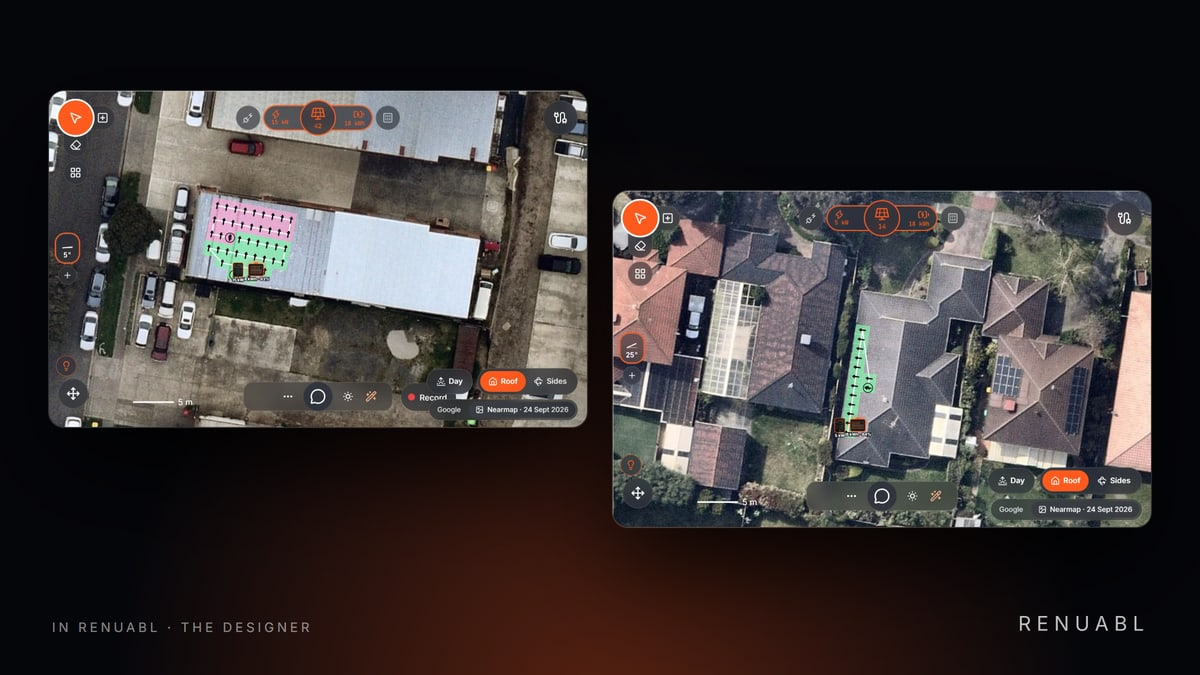
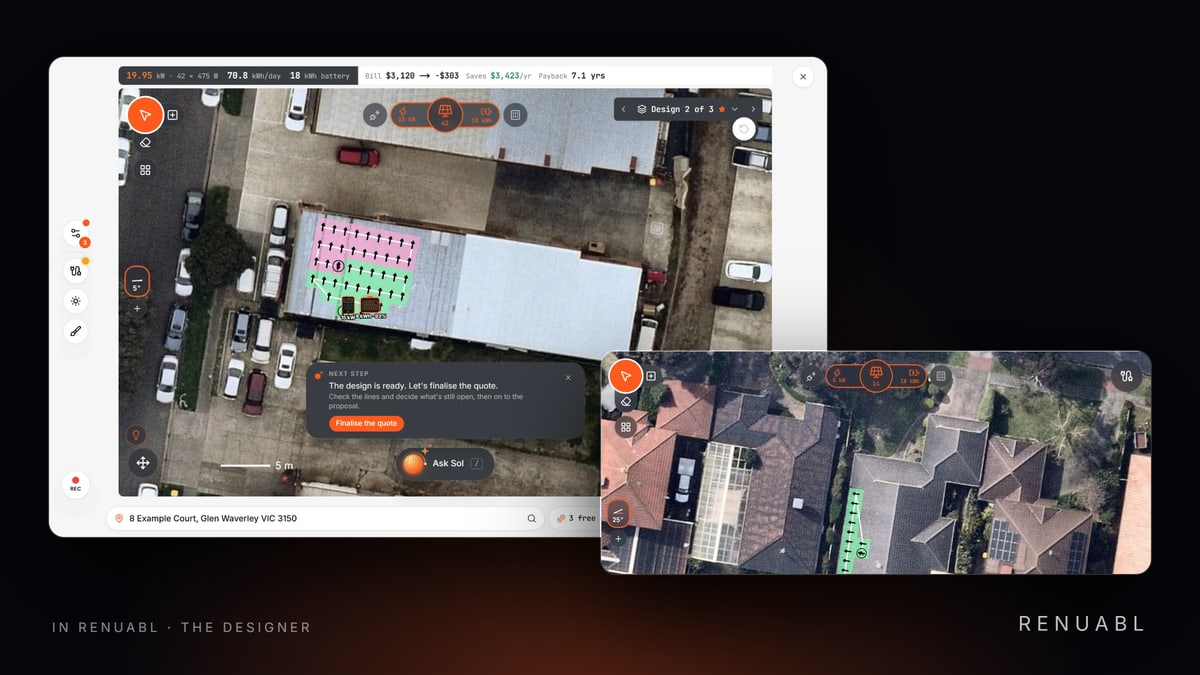
Every launch email shows the designer, in its new look (Martin: a view of the designer in every email, so the reader sees at once it's solar software and not a stray promotion). A slim picture of the designer on a real roof now sits under each email's hook, linking to the demo, and the designer emai

diff --git a/src/lib/domain/marketing/gtm-drafts.ts b/src/lib/domain/marketing/gtm-drafts.ts
@@ -72,6 +72,10 @@ export const SOL_TYPES: Record<string, string> = {
 };
 
 export const GTM_PICTURES: Record<string, GtmPicture> = {
+  dband: {
+    file: "/design/launch/designer-band.jpg",
+    alt: "Made for solar: RENUABL's designer, a system laid out on a real roof and priced as it's drawn",
+  },
   solintro: { file: "/design/launch/sol-intro.gif", alt: SOL_TYPES.solintro },
   cards: {
     file: "/design/launch/cards.gif",
@@ -111,7 +115,8 @@ export const GTM_PICTURES: Record<string, GtmPicture> = {
 export const pictureKeyOf = (b: EdmBlock): string | null => (b.kind === "image" ? (b.id.match(/pic([a-z]+)$/)?.[1] ?? null) : null);
 
 /**
- * One email: the hook as its heading, its pictures (the product moving, Sol's card, the product itself), a line only
+ * One email: the hook as its heading, then the designer (22 Nov 2026, Martin: every email shows the designer, so it
+ * reads at a glance as solar software and not a stray promotion; the designer's own email already leads with it), its pictures (the product moving, Sol's card, the product itself), a line only
  * where something must be said in words, one button, then the slim $2-a-day strip and the Marketplace band.
  */
 function email(
@@ -130,6 +135,7 @@ function email(
     preview,
     blocks: [
       block("h", { kind: "heading", text: hook, url: null, align: "left" }),
+      ...(pictures.includes("designer") ? [] : [picture("dband", DEMO)]),
       ...pictures.map((k) => picture(k)),
       ...(words.length ? [block("t", { kind: "text", text: words.join("\n\n"), url: null, align: "left" })] : []),
       block("b", { kind: "button", text: button[0], url: button[1], align: "left" }),

diff --git a/src/lib/domain/marketing/gtm-drafts.test.ts b/src/lib/domain/marketing/gtm-drafts.test.ts
@@ -50,9 +50,10 @@ describe("the launch drafts", () => {
     expect(art).not.toMatch(/>RENUABL<\/(div|text)>/);
   });
 
-  it("open on the hook and end on the Marketplace band", () => {
+  it("open on the hook with the designer in view, and end on the Marketplace band", () => {
     for (const c of GTM_EMAILS) {
       expect(c.blocks[0].kind).toBe("heading");
+      expect(["dband", "designer"]).toContain(pictureKeyOf(c.blocks[1]));
       expect(pictureKeyOf(c.blocks.at(-2)!)).toBe("footv");
       expect(pictureKeyOf(c.blocks.at(-1)!)).toBe("footer");
       expect(c.blocks.at(-1)!.url).toBe("https://www.renuabl.com.au/design/marketplace");

diff --git a/CLAUDE.md b/CLAUDE.md
@@ -154,7 +154,7 @@
 - **A new campaign starts with what it's for (20 Nov 2026, Martin, from instant.one's "What do you want to achieve today?": New campaign "dives straight into draft which takes a me a little to process im in draft and to orient myself").** `domain/marketing/campaign-goals.ts` (tested), `components/design/marketing/campaign-start.tsx` (`CampaignStart`), `/design/marketing/campaigns/new`. **New campaign** on Campaigns goes there, not to a draft: "What do you want to achieve?" with six tiles (`CAMPAIGN_GOALS`, `GOAL_WORDS`: Announce something new, Promote an offer, Share news or an update, Teach something useful, Win back quiet contacts, Invite them to something), then under them **Or carry on with a draft** (the latest three drafts) and **Start with a blank email**. Picking a tile opens step 2 under it: the goal's own question as the brief box (with an example as its placeholder), **Who is it going to?** (a list, or Choose later) and **Write the first draft** (Ctrl+Enter too) or **I'll write it myself**. Sol writes all four parts first (`writeWithSol` with `goal`; the write route adds the goal's `angle` after his rules, `edmSolPrompt` `angle`: how to approach that kind of email, never a fact, so the brief is still the only source of offers, figures and dates; credits as before), and only then is the campaign made, named from his subject (`campaignName`), filled (`startedContent`: the starter email's heading and words, its button kept) with the list chosen, and opened in the editor; if Sol can't write it, nothing is made and the screen says why. Nothing is sent from here. Seen in the browser on the local example business: an offer brief written by Sol against Claude (the offer, date and audience as given, nothing added) and opened in the editor. Not yet: the brief carried into the editor's Write it with Sol box, suggestions from the business's own data (customers with solar and no battery, quotes gone quiet), the same start for a sequence, and steps (write, test, send) marked in the editor.
 - **Emails in sections, with picture tiles (20 Nov 2026, Martin, from instant.one's generated campaigns: "tile sections (perhaps options between 3 sections or 4 sections or 5) and then within each section they can drop in images… if you were advertising 6 products then you could add 6 blocks… and then the text perhaps we could use AI to make the text and put it all together. this would mean that all independent users of renuabl… would not all have the same looking emails").** `domain/marketing/edm-sections.ts` (tested in `edm-sections.test.ts`), the tiles in `edm.ts`, `TilesFields` in edm-builder.tsx. **A new block, Picture tiles** (`EDM_BLOCK_KINDS` `tiles`; `EdmBlock.tiles`, `columns`; `cleanTiles`, `cleanColumns`, `filledTiles`): up to `EDM_LIMITS.tiles` (6) pictures a block, one, two or three across (`TILE_COLUMNS`), each with a caption and an https link; in the builder a spot is pressed or dropped on, several files dropped on the block fill its empty spots and then add more, and **Add a picture** adds a spot. **A spot with no picture is never sent** and never stops an email being sent (a block of empty spots renders nothing); a tile's link is counted like any other (`edmLinks` in block then tile order, so clicks still go by index). `renderEdm` draws them as a table of equal cells. **Layouts** on the campaign's start screen, step 2, **How should it be laid out?** (`EDM_LAYOUTS`: Simple, 3, 4 or 5 sections, each a small drawing, `LayoutThumb`; 3 to start): `layoutContent` makes each section a heading, its words and a tiles block (one spot across in the first, two after), a divider between sections and one button to close. **Sol writes every section** (`writeWithSol` with `sections`; the write route asks with `sectionsAsk` in place of the four parts through `edmSolPrompt`'s `ask`, under the same rules and the goal's angle, answered as `sectionsSchema`, tidied by `cleanSections`): a heading and under 70 words a section, the first opening "Hi {firstName},", the button's words, never a mention of a picture; one deep answer's credits as before. **I'll write it myself** opens the same layout with placeholder words. **Pictures are the business's own; none are generated** (Claude makes no pictures; it would need another provider and a cost per picture). **Two fixes found on the way**: pictures uploading at once no longer undo each other (`setBlock` works on the email as it stands, `BlockPatch` may be a function), and **the email preview never showed pictures** (its frame was fully sandboxed; it is now `sandbox="allow-same-origin"`, still no scripts, with whole picture addresses). Seen in the browser on the local example business: a three-section announcement written by Sol against Claude, three pictures put into tiles, the builder and the preview. Not sent for real: VERIFY the tiles in Gmail and Outlook (two and three across on a phone). Not yet: layouts in the editor for an existing draft, a section's look (picture beside the words, a tinted ground), dragging tiles into order, Sol captioning a picture, a campaign of several emails made at once (instant.one's three), and the same layouts for a sequence's emails.
 - **Telling Sol what to change about one part of an email (20 Nov 2026, Martin: "im finding it difficult to provide sol feedback so he can improve my subject line and preview text. instead i click on the sol icon and its like rolling the dice. its not guided").** The Sol button beside the subject, preview line, each heading and each words block in the email editor reads **Improve** and no longer rewrites on a press: it opens `SolAsk` (edm-sol-ask.tsx) under that field. Six ways to steer him as chips (`EDM_SOL_STEERS` in edm-sol.ts: What's in it for them, More curious, Punchier, Shorter, Plainer, Less salesy), a box for the member's own words (`steerNote`, up to `EDM_SOL_LIMITS.note` 300), then for a one-line part **Show me 3 options** (`EDM_SOL_LINE_PARTS`; the write route takes `note`, `options: true` and `avoid`, answers `options`, `edmSolOptionsSchema`, `cleanEdmSolOptions`: none blank, repeated, already in the field or passed over): nothing changes until one is pressed, each shows its length, **None of these: show 3 more** asks again without repeating them, and Put the old one back undoes a pick. The words block is rewritten in place with the feedback (**Rewrite the words**, undo beside it). In `edmSolPrompt` the feedback is fenced as `<feedback>` after his rules: it steers angle, tone, length and wording and may state a fact about the business, and changes no rule (no invented figures, offers or claims needing proof). One Sol credit an ask, as before. Tested in `edm-sol-steer.test.ts`; seen in the browser on the local example business against Claude (three options, one picked, feedback typed and three more that followed it). Not yet: the same box on a tile's caption or a button's label, Sol saying why he chose each option, and the start screen's brief carried into the editor.
-- **RENUABL's launch, "One giant leap" (22 Nov 2026, Martin: test the marketing CRM with actual launch emails; "the whats in it for the retailer stance - ai sales force. voice sales agents calling and booking in appointments… one huge leap for solar… influenced by tesla, space x and apple… imagery should be high end… a series… that educates the recipient on the features and benefits"; over the go-to-market drafts of 15 Nov).** The strategy, rollout, measures, what must be true before sending and how to test Marketing with it are in `docs/marketing/launch-strategy.md` (the 15 Nov plan's send checklist and warm-up still stand). `domain/marketing/gtm-drafts.ts` (tested in `gtm-drafts.test.ts`) is now a launch campaign, **One giant leap for solar**, and a six-email series started by opening it (Meet your AI sales force: the voice agents; Sol thinks, you decide; It prices as you draw; Software that works while you're on the roof; Signed, then it runs itself; One price, everything in it), each one picture, one headline, a few short paragraphs and one button, prices read from plans.ts and add-ons.ts, every claim one the business page makes. **The pictures** are dark, keynote-style 1200 × 675 JPEGs in `public/design/launch/` (the sun over the earth's curve, a voice agent's call over its waveform, Sol and Today, a roof drawn with panels, the install calendar, the sun on the horizon), drawn by `tools/marketing/launch-art.mjs` (CSS and SVG with the product's own screenshots, taken by headless Chrome; made-up customers, no stock photos or other marks; run it again after the screens change). `/api/design/marketing/gtm` (Add the drafts, RENUABL's own business only) reads each picture from the site's own files into Marketing's pictures (`safeImage`, `saveImage`) and puts its id in its block (`GTM_PICTURES`, `pictureKeyOf`, `withPictures`); a draft already there by name isn't added again, so the 15 Nov drafts stay beside them. **Flagged before sending**: the voice agent's booking still offers the homeowner booking page's times, not a retailer's own diary, so "books them a call with your team" holds for RENUABL alone until that is built (or soften the line); and buying a business number in the app is off, so each Calls & Texts number is put on by hand. Rendered and checked as the email builds them; **not yet added in a running Marketing** (the local business isn't RENUABL's own) **or sent**: VERIFY Add the drafts on the live business and one test to Gmail and Outlook. **Cut down, and moving (22 Nov 2026, Martin: "far too much text"; Sol "as per the homepage"; the AI sales force email "exciting… instantly obvious" with "animations… showing a call in progress"; "stacked cards in a staggered format"; Sol, the voice agent's audio icon and the AI designer marketed as products, Apple style; "bring it home with the 90's style direct marketing")**: every email is now one product, one picture, a headline, a line or two (`MAX_WORDS` 45, tested) and one button, no greeting: the launch's picture is a staggered stack of six cards dealt in (`cards.gif`: Your customers, answered · Your emails, written · Your calls, written up · Your super-intelligent advisor · Your roofs, designed · Your installs, lined up), then a voice agent on a call (`call.gif`: its wave beating, the clock running, the words typed, Booked), Sol (`sol.gif`, **filmed off the live homepage**, the same sun and brain), the designer laying panels (`designer.gif`), Today, after the sale, and a 1990s mail-order coupon (`coupon.jpg`) with a P.S. The cards use the homepage's sun too. `launch-art.mjs` now drives Chrome over the DevTools protocol, frame by frame (`window.at(t)`), and puts each GIF's finished frame first (Outlook on Windows shows only the first). **Marketing keeps animated GIFs** (`marketingImage`, `isGif` in design-images.ts: drawn again frame by frame, no wider than `MARKETING_GIF_SIDE`; the builder's picture box takes GIFs); before, every picture was flattened to a still JPEG. **Sol types (22 Nov 2026, Martin: the Sol picture "sitting in its state and after 2 seconds, automatically typed text coming from sol"; "an introductory email thats instantly striking"; follow-ups "with card explainers… text being typed up by Sol")**: Sol's GIFs (`sol-intro.gif`, `sol.gif`, `SOL_SAYS` in the picture tool) hold still for two seconds, then he types; the launch opens on him introducing himself, the stacked cards under him; each follow-up is its product's picture, the product's name as the heading, then an explainer card (`explain-voice/designer/crm/runs.gif`, `EXPLAINERS`) on which Sol types the line that used to be the email's words. Those words are kept in `SOL_TYPES` as the pictures' alt text, and a test checks the picture tool says the same. **Hooks, the saving, the real product and the Marketplace band (22 Nov 2026, Martin: "customer winning HOOKS"; "$49 per month is… less than $2 per calendar day… you cant employ anyone on less than $2 per day… the savings are really important"; "a screenshot from the actual portal that aligns with the email messaging"; "something into the footer of each email… marketplace coming soon"; the coupon "off brand")**: each email now opens on a hook as its heading and subject (Solar just got an AI sales force; An AI salesperson for less than $2 a day; …), shows the real product (`product-sol.jpg` from Sol's real answer on Today, `product-voice.jpg` from Charlie's window on a call, both taken in the portal on the local example business and kept in public/design/landing), the voice email carries `price-voice.jpg` and the line "on top of your RENUABL plan" (`voiceAday`, `VOICE_DAY_WORDS`, `PRICE_DAY_LINE`: $49 a month is $1.61 a day, $1.75 in February, tested), every email ends on `footer-marketplace.jpg` linking to the Marketplace page, and the coupon is redrawn in RENUABL's own look. **"First" isn't said** (Martin asked for "the FIRST truly AI empowered sales force"; it needs proof under the ACL). **Two real roofs and a $2-a-day strip (22 Nov 2026, Martin: the designer to use the site the website shows and a second home in Rowville, "never disclose the addresses"; "the less than $2 a day could be on the footers as a reminder. just a slim strip… underneath that could be promoting marketplace")**: `designer.jpg` is the two roofs designed in the portal (the website's Doug Mitchell deal, and the Rowville home opened under "Example Court"), kept as `designer-site-1.webp` and `designer-site-2.webp` in public/design/landing (named by number, never by street; a GIF of them weighed nearly 2 MB, so it is a still), and every email ends on `footer-voice.jpg` (Your AI salesperson: less than $2 a day) above the Marketplace band. A test keeps the street names out of the picture tool. **The real logo, and speed to lead (22 Nov 2026, Martin: "use the correct RENUABL logo as per the website"; "dont forget other hooks… such as speed to lead. instantly get back to a customer")**: every picture carries the website's own wordmark file (`public/brand/renuabl-logo-white.png`, at 75%), never RENUABL typed in another weight or spacing (a test checks the picture tool). The series' second email is now speed to lead, **Every new lead, answered in minutes** (`explain-lead.gif`, Sol typing that within minutes he has emailed them their home from above and the voice agent is ringing, in the business's hours), with the call write-up card and Today under it; it took the place of "Stop typing up your calls", since a series holds at most 12 steps (six emails and their waits). **The logo at the top of the emails too (22 Nov 2026, Martin: "Yes, fix the header")**: Marketing wrote the sender's name in bold at the top of every email; a sender may now carry a logo (`EdmSender.logo`, a public https address only, `headerCell` in edm.ts, tested), drawn there in its place at 132 px. RENUABL's own business gets the website's wordmark (`RENUABL_EMAIL_LOGO` in marketing-access.ts: `public/brand/renuabl-logo-email.png`, trimmed, 264 px for sharp screens), so the file must be live before a test send shows it. Other businesses still show their name: their brand kit's logo isn't served publicly yet.
+- **RENUABL's launch, "One giant leap" (22 Nov 2026, Martin: test the marketing CRM with actual launch emails; "the whats in it for the retailer stance - ai sales force. voice sales agents calling and booking in appointments… one huge leap for solar… influenced by tesla, space x and apple… imagery should be high end… a series… that educates the recipient on the features and benefits"; over the go-to-market drafts of 15 Nov).** The strategy, rollout, measures, what must be true before sending and how to test Marketing with it are in `docs/marketing/launch-strategy.md` (the 15 Nov plan's send checklist and warm-up still stand). `domain/marketing/gtm-drafts.ts` (tested in `gtm-drafts.test.ts`) is now a launch campaign, **One giant leap for solar**, and a six-email series started by opening it (Meet your AI sales force: the voice agents; Sol thinks, you decide; It prices as you draw; Software that works while you're on the roof; Signed, then it runs itself; One price, everything in it), each one picture, one headline, a few short paragraphs and one button, prices read from plans.ts and add-ons.ts, every claim one the business page makes. **The pictures** are dark, keynote-style 1200 × 675 JPEGs in `public/design/launch/` (the sun over the earth's curve, a voice agent's call over its waveform, Sol and Today, a roof drawn with panels, the install calendar, the sun on the horizon), drawn by `tools/marketing/launch-art.mjs` (CSS and SVG with the product's own screenshots, taken by headless Chrome; made-up customers, no stock photos or other marks; run it again after the screens change). `/api/design/marketing/gtm` (Add the drafts, RENUABL's own business only) reads each picture from the site's own files into Marketing's pictures (`safeImage`, `saveImage`) and puts its id in its block (`GTM_PICTURES`, `pictureKeyOf`, `withPictures`); a draft already there by name isn't added again, so the 15 Nov drafts stay beside them. **Flagged before sending**: the voice agent's booking still offers the homeowner booking page's times, not a retailer's own diary, so "books them a call with your team" holds for RENUABL alone until that is built (or soften the line); and buying a business number in the app is off, so each Calls & Texts number is put on by hand. Rendered and checked as the email builds them; **not yet added in a running Marketing** (the local business isn't RENUABL's own) **or sent**: VERIFY Add the drafts on the live business and one test to Gmail and Outlook. **Cut down, and moving (22 Nov 2026, Martin: "far too much text"; Sol "as per the homepage"; the AI sales force email "exciting… instantly obvious" with "animations… showing a call in progress"; "stacked cards in a staggered format"; Sol, the voice agent's audio icon and the AI designer marketed as products, Apple style; "bring it home with the 90's style direct marketing")**: every email is now one product, one picture, a headline, a line or two (`MAX_WORDS` 45, tested) and one button, no greeting: the launch's picture is a staggered stack of six cards dealt in (`cards.gif`: Your customers, answered · Your emails, written · Your calls, written up · Your super-intelligent advisor · Your roofs, designed · Your installs, lined up), then a voice agent on a call (`call.gif`: its wave beating, the clock running, the words typed, Booked), Sol (`sol.gif`, **filmed off the live homepage**, the same sun and brain), the designer laying panels (`designer.gif`), Today, after the sale, and a 1990s mail-order coupon (`coupon.jpg`) with a P.S. The cards use the homepage's sun too. `launch-art.mjs` now drives Chrome over the DevTools protocol, frame by frame (`window.at(t)`), and puts each GIF's finished frame first (Outlook on Windows shows only the first). **Marketing keeps animated GIFs** (`marketingImage`, `isGif` in design-images.ts: drawn again frame by frame, no wider than `MARKETING_GIF_SIDE`; the builder's picture box takes GIFs); before, every picture was flattened to a still JPEG. **Sol types (22 Nov 2026, Martin: the Sol picture "sitting in its state and after 2 seconds, automatically typed text coming from sol"; "an introductory email thats instantly striking"; follow-ups "with card explainers… text being typed up by Sol")**: Sol's GIFs (`sol-intro.gif`, `sol.gif`, `SOL_SAYS` in the picture tool) hold still for two seconds, then he types; the launch opens on him introducing himself, the stacked cards under him; each follow-up is its product's picture, the product's name as the heading, then an explainer card (`explain-voice/designer/crm/runs.gif`, `EXPLAINERS`) on which Sol types the line that used to be the email's words. Those words are kept in `SOL_TYPES` as the pictures' alt text, and a test checks the picture tool says the same. **Hooks, the saving, the real product and the Marketplace band (22 Nov 2026, Martin: "customer winning HOOKS"; "$49 per month is… less than $2 per calendar day… you cant employ anyone on less than $2 per day… the savings are really important"; "a screenshot from the actual portal that aligns with the email messaging"; "something into the footer of each email… marketplace coming soon"; the coupon "off brand")**: each email now opens on a hook as its heading and subject (Solar just got an AI sales force; An AI salesperson for less than $2 a day; …), shows the real product (`product-sol.jpg` from Sol's real answer on Today, `product-voice.jpg` from Charlie's window on a call, both taken in the portal on the local example business and kept in public/design/landing), the voice email carries `price-voice.jpg` and the line "on top of your RENUABL plan" (`voiceAday`, `VOICE_DAY_WORDS`, `PRICE_DAY_LINE`: $49 a month is $1.61 a day, $1.75 in February, tested), every email ends on `footer-marketplace.jpg` linking to the Marketplace page, and the coupon is redrawn in RENUABL's own look. **"First" isn't said** (Martin asked for "the FIRST truly AI empowered sales force"; it needs proof under the ACL). **Two real roofs and a $2-a-day strip (22 Nov 2026, Martin: the designer to use the site the website shows and a second home in Rowville, "never disclose the addresses"; "the less than $2 a day could be on the footers as a reminder. just a slim strip… underneath that could be promoting marketplace")**: `designer.jpg` is the two roofs designed in the portal (the website's Doug Mitchell deal, and the Rowville home opened under "Example Court"), kept as `designer-site-1.webp` and `designer-site-2.webp` in public/design/landing (named by number, never by street; a GIF of them weighed nearly 2 MB, so it is a still), and every email ends on `footer-voice.jpg` (Your AI salesperson: less than $2 a day) above the Marketplace band. A test keeps the street names out of the picture tool. **The real logo, and speed to lead (22 Nov 2026, Martin: "use the correct RENUABL logo as per the website"; "dont forget other hooks… such as speed to lead. instantly get back to a customer")**: every picture carries the website's own wordmark file (`public/brand/renuabl-logo-white.png`, at 75%), never RENUABL typed in another weight or spacing (a test checks the picture tool). The series' second email is now speed to lead, **Every new lead, answered in minutes** (`explain-lead.gif`, Sol typing that within minutes he has emailed them their home from above and the voice agent is ringing, in the business's hours), with the call write-up card and Today under it; it took the place of "Stop typing up your calls", since a series holds at most 12 steps (six emails and their waits). **The logo at the top of the emails too (22 Nov 2026, Martin: "Yes, fix the header")**: Marketing wrote the sender's name in bold at the top of every email; a sender may now carry a logo (`EdmSender.logo`, a public https address only, `headerCell` in edm.ts, tested), drawn there in its place at 132 px. RENUABL's own business gets the website's wordmark (`RENUABL_EMAIL_LOGO` in marketing-access.ts: `public/brand/renuabl-logo-email.png`, trimmed, 264 px for sharp screens), so the file must be live before a test send shows it. Other businesses still show their name: their brand kit's logo isn't served publicly yet. **The designer in every email (22 Nov 2026, Martin: "important in all emails to have a view of the designer in it… so that the recipient also doesnt mistake this for some irrelevant promotional marketing"; the designer has a new look)**: the two roofs were taken again in the new designer (`designer-site-1.webp` the pop-up on the website's site, `designer-site-2.webp` the Rowville roof cropped to its picture; the pop-up wouldn't screenshot for Rowville in headless Chrome, so it is the page view at `embed=1`), and `designer-band.jpg` (key `dband`) sits under every email's hook, linking to the demo; the designer's own email leads with `designer.jpg` instead. A test keeps the designer second in every email.
 - Installer portal is deliberately dark; green (`positive`) is reserved for confirmed / on-track / available / positive states.
 
 - **The RENUABL Business demo: Try the demo (11 Nov 2026, Martin: a link to give someone at a solar wholesaler, who passes it to retailers and installers; blended into signing up without being framed as it).** `domain/design/demo.ts` (tested), `server/design-demo.ts`, `server/design-demo-check.ts`, `/api/business-demo` (POST opens, PUT takes the details), `components/design/business-demo.tsx` (`TryDemoButton`, `BusinessDemo`), `demo-details.tsx` (`DemoBar`, `DemoDetailsPrompt`). **The link to hand out is `/business`**: **Try the demo** sits in its top bar and hero beside Sign up (not for someone signed in); `/business/demo` is a short page of its own (what RENUABL is, `DEMO_PAGE.what`, What it does, the button; noindex, no-referrer). **One press, no form**: the server makes **a demo business of that visitor's own** (`openDemo`: a retailer called "Your solar business", owner `demo-<random>@demo.renuabl.example`, a reserved domain nothing is delivered to; the welcome skipped, the example deals in, `DEMO_SOL_CREDITS` (40) of Sol's answers as a one-off pack), signs the browser in and lands on Today; someone already signed in is sent to their own account instead; `DEMO_PER_HOUR` (6) a visitor. `/api/design/me` says `demo` (no plan step, no About you) and an orange bar over every page says it is a demo. **Put your business on it** (`DEMO_DETAILS`: name, company, work email, a consent line with the Privacy Policy): asked for the first time they design a roof, ask Sol or publish a proposal (`demoNeedsDetails` through `requireMember`, answered 403 with `DEMO_DETAILS_HEADER`, which opens the box from any screen; the designer opened on a roof shows it at once, `demoPageNeedsDetails`), and offered from the bar; looking round the deals, pipeline, calendar and settings asks nothing. Given, they are kept as a sales lead of kind `demo` (`design_leads`: name, company, email as typed, not verified), staff are emailed (`demoDetailsNote`, `tellStaff`), the owner takes their name and the demo is renamed to their company, so its proposals carry it (`keepDemoDetails`). **A demo never reaches outside itself** (`demoRefuses`, the proxy passing the method in `METHOD_HEADER`): emails to customers, group emails, purchase orders, the job card emailed, calls, Sol's agents, the inbox, posts on the industry feed, connections, the Marketplace, jobs passed on, people added, billing and card payments answer 403 `DEMO_REFUSAL`; a chat reply is kept but never emailed, Sol's outbox never sends, and **Sol's credits are always enforced for a demo** (`enforcedFor` in sol-credits.ts) whatever `BILLING_ENFORCED` says. Demos are cleared `DEMO_DAYS` (30) after opening by the daily cron (`clearOldDemos`). **Where a demo came from** (15 Nov 2026, Martin: a wholesaler's email links to the demo; `cleanDemoSource`, `demoSourceWords` in demo.ts, tested): Try the demo sends the page's `utm_source` and `utm_campaign` with the press, cleaned to plain lower-case tags, kept on the demo business (`businesses.demo_source`, `demo_campaign`, `demoSourceOf`) and, once they give their details, on the demo lead's note and the staff email ("Came from: rexel · wholesaler-launch"). The wholesaler partner kit is in `docs/marketing/wholesaler/` (`build.mjs` makes the email, the newsletter block and `public/design/partner/` pictures). Known gaps: the roof picture route answers signed out too (the designer can be tried on the device), so a roof's picture isn't held back by the details; the brand kit's notify addresses can still be typed in a demo; the privacy policy doesn't name the demo yet. Not built yet: **Keep this account** (the demo becoming their real account once the email is proven), a list of demo leads on `/admin`, coming back to the same demo after the session ends. Run end to end through the API on the local database; the button, the bar and the details box not yet seen in a browser.

diff --git a/docs/marketing/launch-strategy.md b/docs/marketing/launch-strategy.md
@@ -195,3 +195,5 @@ Victoria first, then by state.
 5. Click a button, unsubscribe from one copy, and check each report: sent, opened, clicked, unsubscribed.
 
 **The real logo, and speed to lead** (22 Nov 2026, Martin: "use the correct RENUABL logo as per the website"; "dont forget other hooks… such as speed to lead. instantly get back to a customer"): every picture carries the website's own wordmark file (`public/brand/renuabl-logo-white.png`), not RENUABL typed in another weight. The second email of the series is now speed to lead, in place of "Stop typing up your calls" (its card stays in it): Sol's hello within minutes and the voice agent ringing, in the business's hours (Sol's hello and calls both wait for them, so nothing says day or night). A series can hold only 12 steps (six emails and their waits), so a new email takes an old one's place.
+
+**The designer in every email** (22 Nov 2026, Martin: "important in all emails to have a view of the designer in it… so that the recipient also doesnt mistake this for some irrelevant promotional marketing"): under each hook sits `/design/launch/designer-band.jpg`, the new designer pop-up on the website's site (a made-up label, no address), tagged "Made for solar · The RENUABL designer", linking to the demo. The designer email leads with both roofs (`designer.jpg`, retaken in the new look) instead. Every email is a band taller for it.
